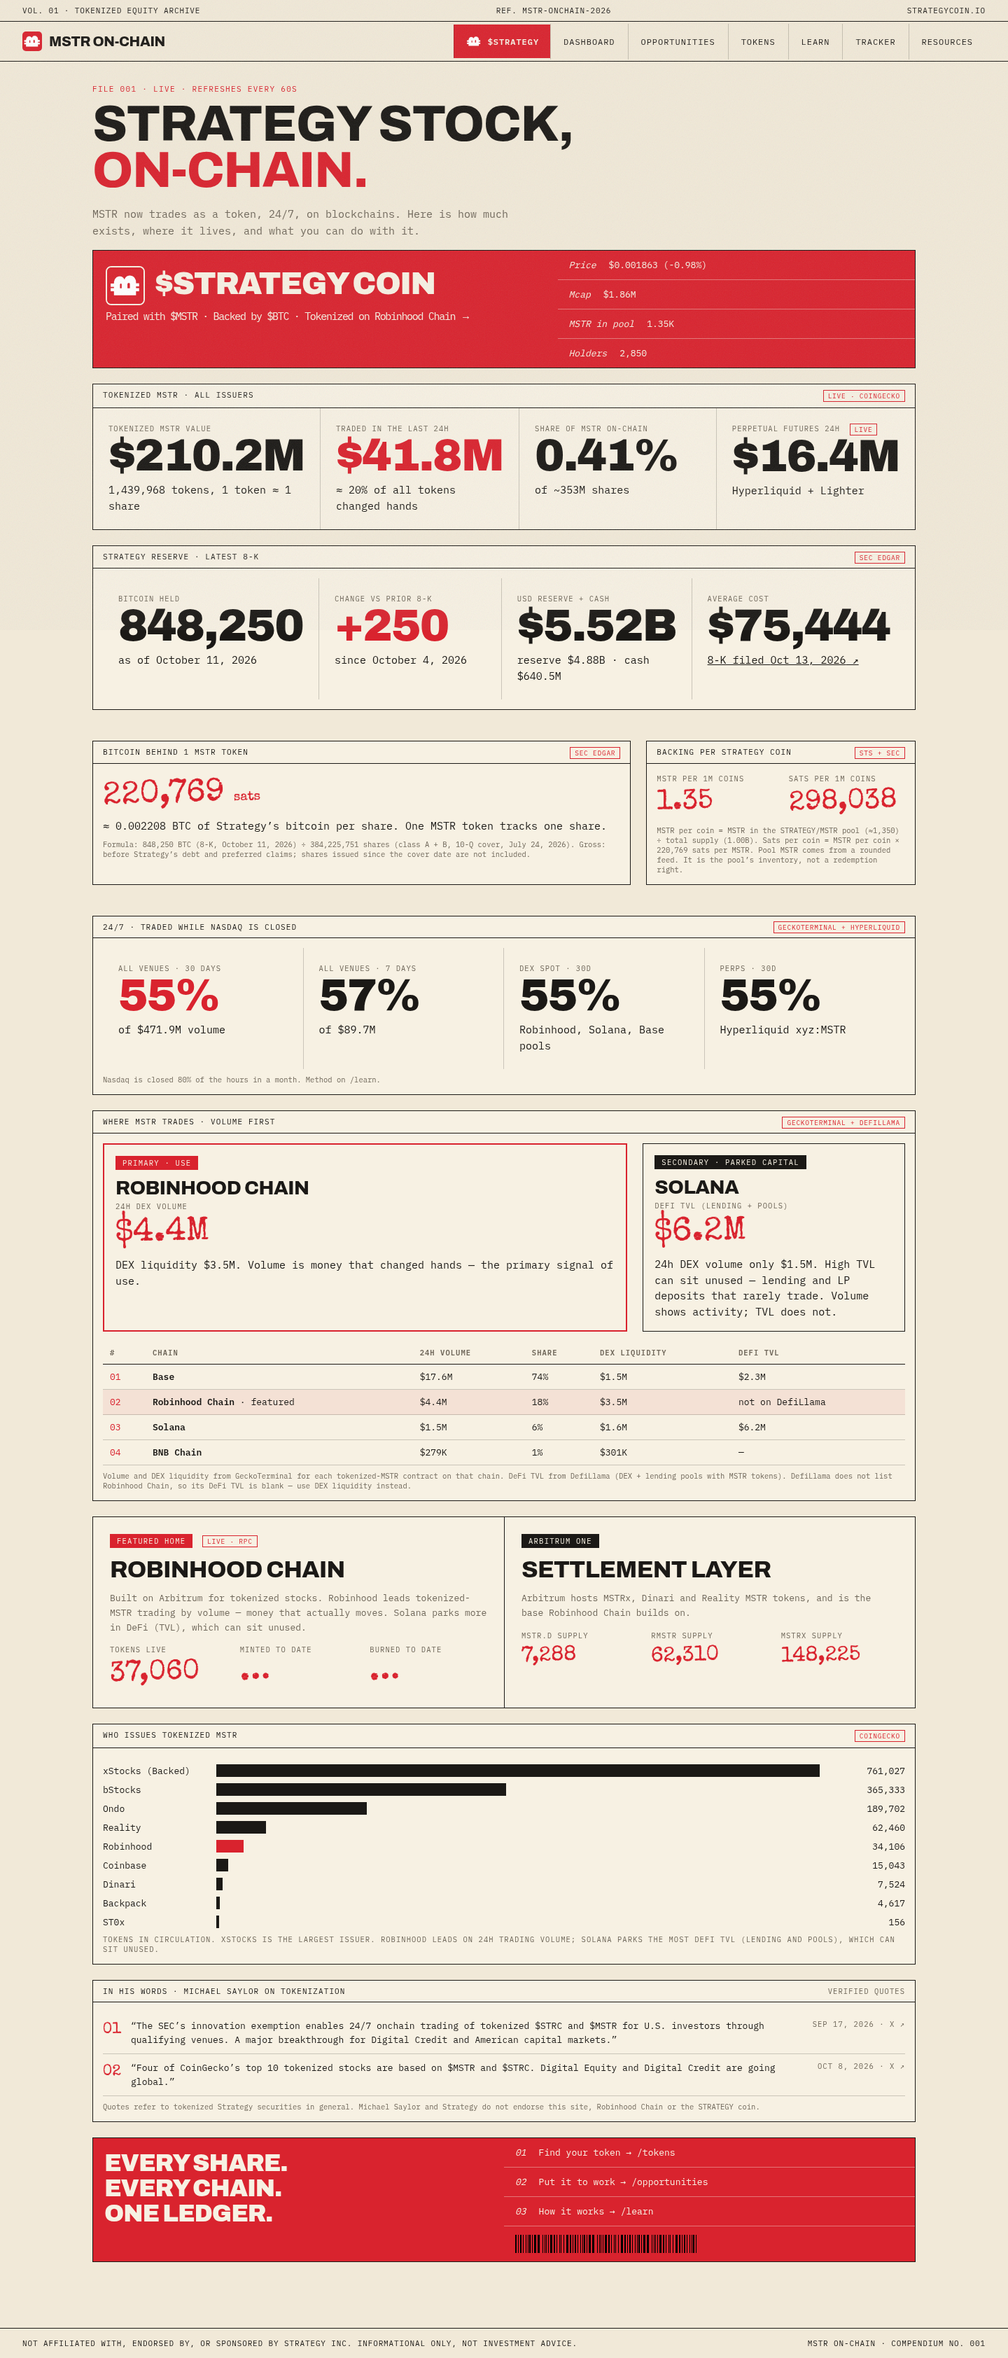
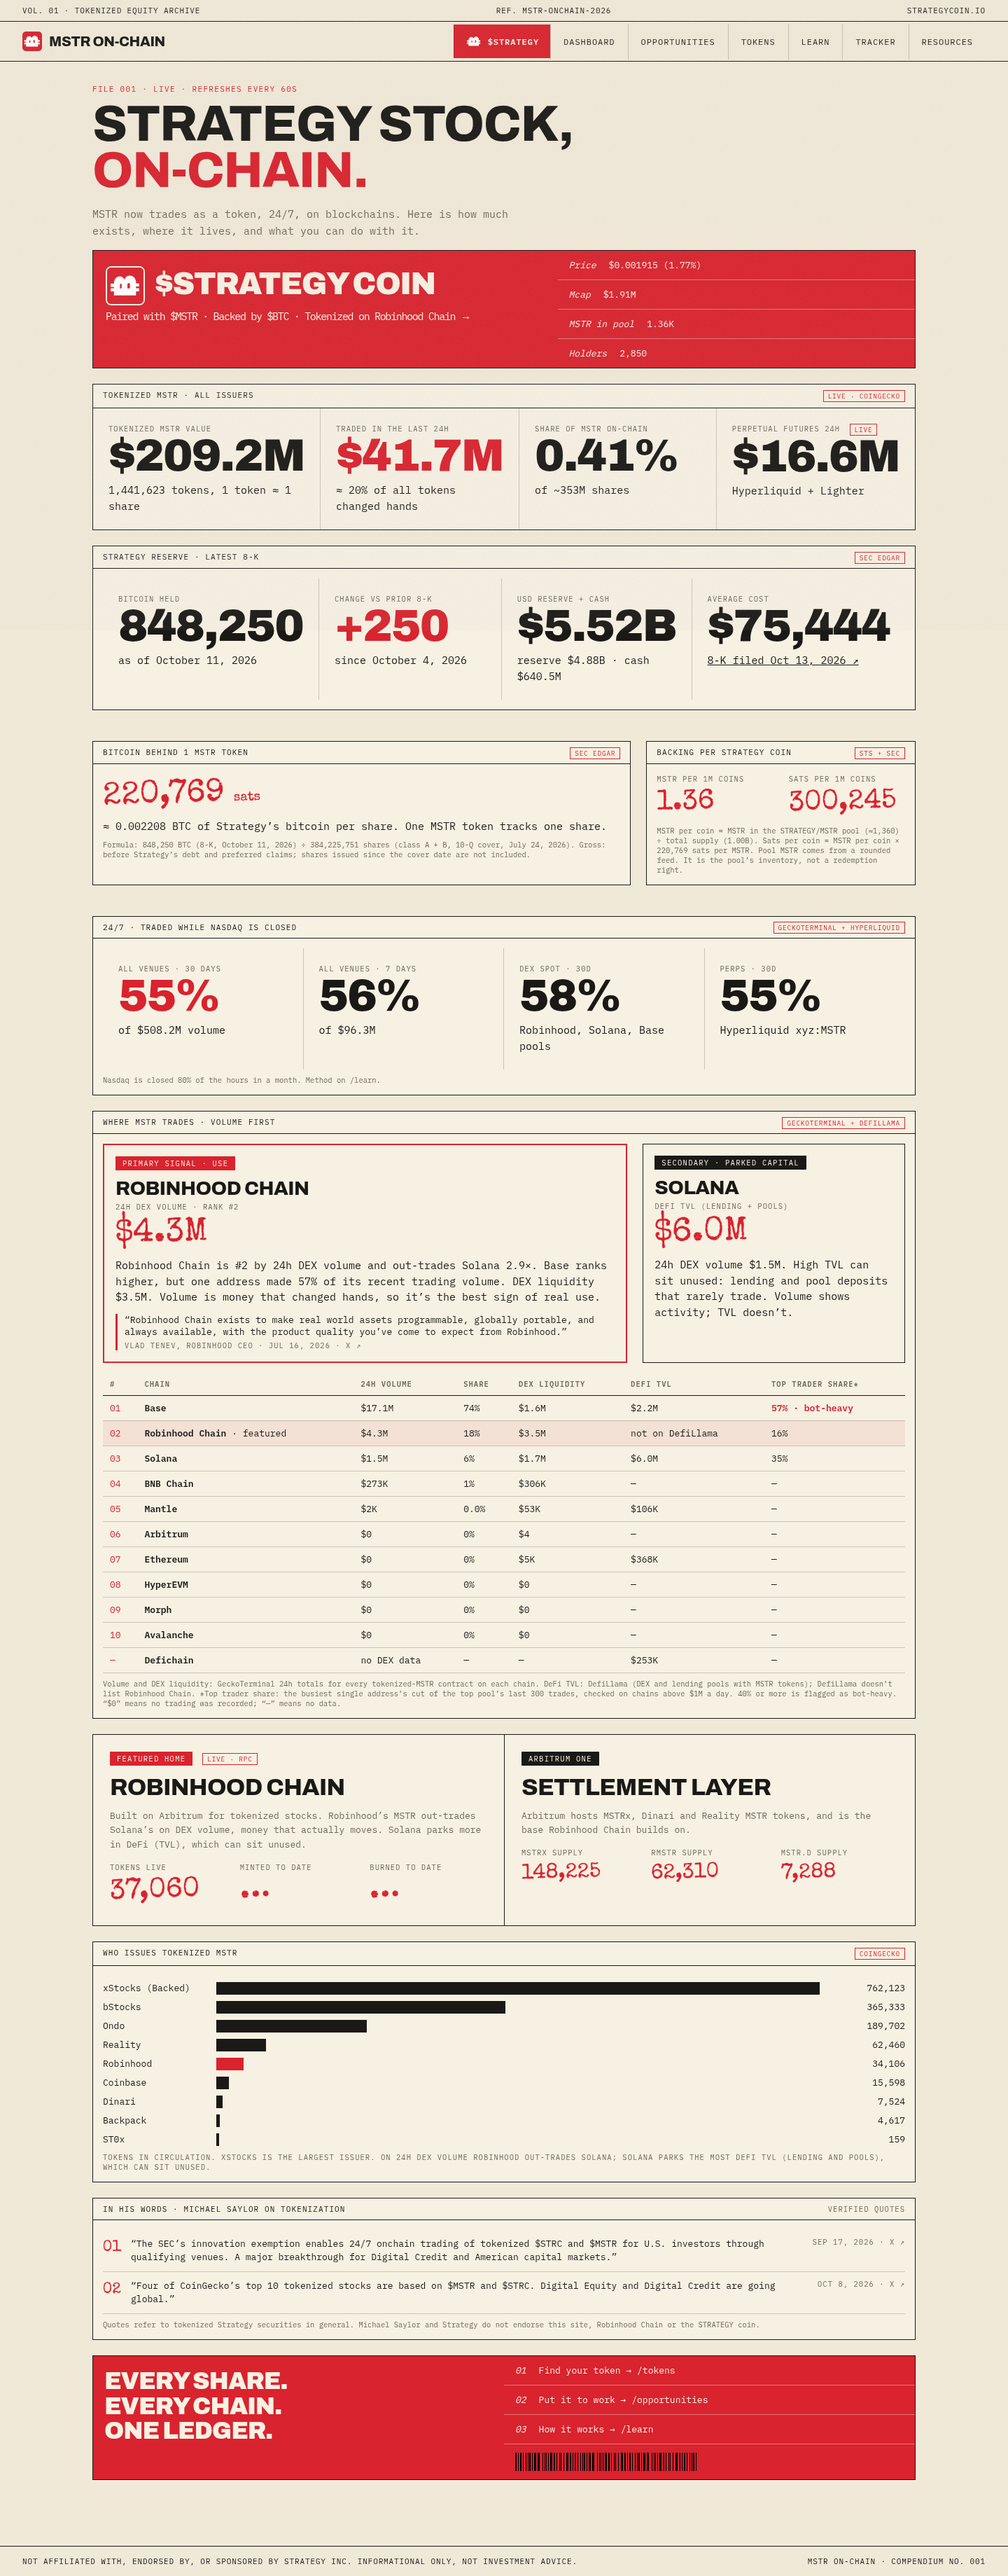
Chains: all networks, bot-concentration check, accurate Robinhood copy, Tenev quote

diff --git a/app/backing.js b/app/backing.js
@@ -49,17 +49,22 @@ export function Collateral({ C }) {
     <F>Kamino: max LTV and supplied collateral from DefiLlama; the borrow rate depends on what you borrow. Morpho: liquidation LTV, rates and sizes from the Morpho API; many markets are very small. Teller: accepts MSTR and STRATEGY for fixed-term loans; it doesn’t publish terms per asset. Loans can be liquidated.</F></Panel>;
 }
 
-/** Robinhood volume vs Solana TVL — use vs money sitting idle. */
+/** Robinhood volume vs Solana TVL — use vs money sitting idle. All chains listed. */
+const TENEV = { q: 'Robinhood Chain exists to make real world assets programmable, globally portable, and always available, with the product quality you\u2019ve come to expect from Robinhood.', d: '2026-07-16', url: 'https://x.com/vladtenev/status/2077814433762451646' };
 export function ChainActivity({ CH }) {
-  const c = Object.fromEntries((CH?.chains || []).map(x => [x.key, x]));
-  const rh = c.robinhood, so = c.solana, top = (CH?.chains || []).filter(x => !x.error && (x.vol24Usd || 0) > 0).slice(0, 5);
+  const L = CH?.chains || [], c = Object.fromEntries(L.map(x => [x.key, x])), rh = c.robinhood, so = c.solana;
+  const x = rh?.vol24Usd && so?.vol24Usd ? rh.vol24Usd / so.vol24Usd : null;
+  const ahead = L.filter(y => y.rank && rh?.rank && y.rank < rh.rank);
+  const lead = rh?.rank == null ? null : rh.rank === 1 ? 'Robinhood Chain is #1 by 24h tokenized-MSTR DEX volume.' : `Robinhood Chain is #${rh.rank} by 24h DEX volume${x ? ` and out-trades Solana ${x.toFixed(1)}×` : ''}.${ahead.some(y => y.botFlag) ? ` ${ahead.filter(y => y.botFlag).map(y => y.chain).join(', ')} ranks higher, but one address made ${ahead.filter(y => y.botFlag).map(y => y.sample.topTraderPct.toFixed(0) + '%').join(', ')} of its recent trading volume.` : ''}`;
+  const cell = v => v == null ? '—' : fmt(v);
   return <Panel t="Where MSTR trades · volume first" r={<St d={CH} s="GECKOTERMINAL + DEFILLAMA" />}><div className="g2">
-    <div style={{ border: '2px solid #d9232e', padding: 16 }}><span className="pill">Primary · use</span><div className="d" style={{ fontSize: 28, margin: '10px 0 4px' }}>Robinhood Chain</div>
-      <div className="k">24h DEX volume</div><div className="stamp" style={{ fontSize: 48, color: '#d9232e' }}>{fmt(rh?.vol24Usd)}</div>
-      <div className="say">DEX liquidity {fmt(rh?.dexLiquidityUsd)}. Volume is money that changed hands — the primary signal of use.</div></div>
+    <div style={{ border: '2px solid #d9232e', padding: 16 }}><span className="pill">Primary signal · use</span><div className="d" style={{ fontSize: 28, margin: '10px 0 4px' }}>Robinhood Chain</div>
+      <div className="k">24h DEX volume{rh?.rank ? ` · rank #${rh.rank}` : ''}</div><div className="stamp" style={{ fontSize: 48, color: '#d9232e' }}>{fmt(rh?.vol24Usd)}</div>
+      <div className="say">{lead || 'Loading…'} DEX liquidity {fmt(rh?.dexLiquidityUsd)}. Volume is money that changed hands, so it’s the best sign of real use.</div>
+      <a href={TENEV.url} target="_blank" rel="noopener" style={{ display: 'block', marginTop: 12, borderLeft: '3px solid #d9232e', paddingLeft: 10, textDecoration: 'none', color: '#1b1916' }}>“{TENEV.q}”<div className="k" style={{ marginTop: 4 }}>Vlad Tenev, Robinhood CEO · Jul 16, 2026 · X ↗</div></a></div>
     <div style={{ border: '1px solid #1b1916', padding: 16 }}><span className="pill" style={{ background: '#1b1916' }}>Secondary · parked capital</span><div className="d" style={{ fontSize: 28, margin: '10px 0 4px' }}>Solana</div>
       <div className="k">DeFi TVL (lending + pools)</div><div className="stamp" style={{ fontSize: 48 }}>{fmt(so?.defiTvlUsd)}</div>
-      <div className="say">24h DEX volume only {fmt(so?.vol24Usd)}. High TVL can sit unused — lending and LP deposits that rarely trade. Volume shows activity; TVL does not.</div></div></div>
-    {top.length > 0 && <table style={{ marginTop: 14 }}><thead><tr><th>#</th><th>Chain</th><th>24h volume</th><th>Share</th><th>DEX liquidity</th><th>DeFi TVL</th></tr></thead><tbody>{top.map((x, i) => <tr key={x.key} style={x.key === 'robinhood' ? { background: 'rgba(217,35,46,.08)' } : undefined}><td style={{ color: '#d9232e' }}>{String(i + 1).padStart(2, '0')}</td><td><b>{x.chain}</b>{x.key === 'robinhood' ? ' · featured' : ''}</td><td>{fmt(x.vol24Usd)}</td><td>{x.volSharePct != null ? x.volSharePct.toFixed(0) + '%' : '—'}</td><td>{fmt(x.dexLiquidityUsd)}</td><td>{x.defiTvlUsd != null ? fmt(x.defiTvlUsd) : (x.key === 'robinhood' ? 'not on DefiLlama' : '—')}</td></tr>)}</tbody></table>}
-    <F>Volume and DEX liquidity from GeckoTerminal for each tokenized-MSTR contract on that chain. DeFi TVL from DefiLlama (DEX + lending pools with MSTR tokens). DefiLlama does not list Robinhood Chain, so its DeFi TVL is blank — use DEX liquidity instead.</F></Panel>;
+      <div className="say">24h DEX volume {fmt(so?.vol24Usd)}. High TVL can sit unused: lending and pool deposits that rarely trade. Volume shows activity; TVL doesn’t.</div></div></div>
+    {L.length > 0 && <table style={{ marginTop: 14 }}><thead><tr><th>#</th><th>Chain</th><th>24h volume</th><th>Share</th><th>DEX liquidity</th><th>DeFi TVL</th><th>Top trader share*</th></tr></thead><tbody>{L.map(y => <tr key={y.key} style={y.key === 'robinhood' ? { background: 'rgba(217,35,46,.08)' } : undefined}><td style={{ color: '#d9232e' }}>{y.rank ? String(y.rank).padStart(2, '0') : '—'}</td><td><b>{y.chain}</b>{y.key === 'robinhood' ? ' · featured' : ''}</td><td>{y.error ? 'unavailable' : y.noDexData ? 'no DEX data' : cell(y.vol24Usd)}</td><td>{y.volSharePct != null ? y.volSharePct.toFixed(y.volSharePct < 1 && y.volSharePct > 0 ? 1 : 0) + '%' : '—'}</td><td>{y.noDexData ? '—' : cell(y.dexLiquidityUsd)}</td><td>{y.defiTvlUsd != null ? fmt(y.defiTvlUsd) : (y.key === 'robinhood' ? 'not on DefiLlama' : '—')}</td><td>{y.sample?.topTraderPct != null ? <span style={y.botFlag ? { color: '#d9232e', fontWeight: 600 } : undefined}>{y.sample.topTraderPct.toFixed(0)}%{y.botFlag ? ' · bot-heavy' : ''}</span> : '—'}</td></tr>)}</tbody></table>}
+    <F>Volume and DEX liquidity: GeckoTerminal 24h totals for every tokenized-MSTR contract on each chain. DeFi TVL: DefiLlama (DEX and lending pools with MSTR tokens); DefiLlama doesn’t list Robinhood Chain. *Top trader share: the busiest single address’s cut of the top pool’s last 300 trades, checked on chains above $1M a day. 40% or more is flagged as bot-heavy. “$0” means no trading was recorded; “—” means no data.</F></Panel>;
 }

diff --git a/app/api/chains/route.js b/app/api/chains/route.js
@@ -2,12 +2,17 @@ import { preflight, cachedFetch, lastGood, json, getJson } from '../../../lib/gu
 import cg from '../../../data/coingecko-tokens.json';
 export const dynamic = 'force-dynamic';
 // Per-chain activity for tokenized MSTR: 24h DEX volume + DEX liquidity (GeckoTerminal token totals) and DeFi TVL (DefiLlama, incl. lending).
-const NET = { robinhood: ['robinhood', 'Robinhood Chain'], solana: ['solana', 'Solana'], base: ['base', 'Base'], 'arbitrum-one': ['arbitrum', 'Arbitrum'], ethereum: ['eth', 'Ethereum'], 'binance-smart-chain': ['bsc', 'BNB Chain'], avalanche: ['avax', 'Avalanche'], hyperevm: ['hyperevm', 'HyperEVM'] };
+const NET = { robinhood: ['robinhood', 'Robinhood Chain'], solana: ['solana', 'Solana'], base: ['base', 'Base'], 'arbitrum-one': ['arbitrum', 'Arbitrum'], ethereum: ['eth', 'Ethereum'], 'binance-smart-chain': ['bsc', 'BNB Chain'], avalanche: ['avax', 'Avalanche'], hyperevm: ['hyperevm', 'HyperEVM'], 'morph-l2': ['morph-l2', 'Morph'], mantle: ['mantle', 'Mantle'] };
+// Tokens not in the CoinGecko list: Mantle WMSTRX (DefiLlama fluxion pool underlying).
+const EXTRA = { mantle: ['0x266e5923f6118f8b340ca5a23ae7f71897361476'] };
+// Chains seen only in DefiLlama (no GeckoTerminal network).
+const LLAMA_ONLY = ['Defichain'];
 const RX = /(^|-|W)MSTR(X|C|ON|B)?($|-)/i;
 const sleep = ms => new Promise(r => setTimeout(r, ms));
 async function load() {
   const by = {};
   for (const t of cg.tokens) for (const [p, a] of Object.entries(t.platforms || {})) if (NET[p]) (by[p] ||= []).push(a);
+  for (const [p, a] of Object.entries(EXTRA)) (by[p] ||= []).push(...a);
   const chains = [];
   for (const [p, addrs] of Object.entries(by)) {
     const [gt, label] = NET[p];
@@ -15,8 +20,20 @@ async function load() {
       const url = `https://api.geckoterminal.com/api/v2/networks/${gt}/tokens/multi/${[...new Set(addrs)].join(',')}`; let d;
       for (let i = 0; ; i++) { try { d = await getJson(url, { ms: 15000 }); break; } catch (e) { if (i >= 3) throw e; await sleep(2500 * (i + 1)); } }
       const vol = d.data.reduce((s, x) => s + (+x.attributes.volume_usd?.h24 || 0), 0), liq = d.data.reduce((s, x) => s + (+x.attributes.total_reserve_in_usd || 0), 0);
-      chains.push({ key: p, chain: label, vol24Usd: vol, dexLiquidityUsd: liq });
+      const top = d.data.flatMap(x => x.relationships?.top_pools?.data || []).map(x => x.id)[0] || null;
+      chains.push({ key: p, chain: label, vol24Usd: vol, dexLiquidityUsd: liq, topPool: top, tokens: d.data.map(x => x.attributes.symbol) });
     } catch (_) { chains.push({ key: p, chain: label, error: true }); }
+    await sleep(1200);
+  }
+  // Concentration check on chains with >$1M daily volume: share of the last 300 trades in the top pool made by the single busiest address.
+  for (const c of chains) if (!c.error && c.vol24Usd > 1e6 && c.topPool) {
+    try {
+      const [net, addr] = [c.topPool.split('_')[0], c.topPool.split('_').slice(1).join('_')];
+      const t = (await getJson(`https://api.geckoterminal.com/api/v2/networks/${net}/pools/${addr}/trades`, { ms: 15000 })).data.map(x => x.attributes);
+      const by = {}; let tot = 0; for (const x of t) { const v = +x.volume_in_usd || 0; tot += v; by[x.tx_from_address] = (by[x.tx_from_address] || 0) + v; }
+      const top = Object.values(by).sort((a, b) => b - a);
+      c.sample = { trades: t.length, traders: Object.keys(by).length, topTraderPct: tot ? top[0] / tot * 100 : null, top3Pct: tot ? (top[0] + (top[1] || 0) + (top[2] || 0)) / tot * 100 : null, avgTradeUsd: t.length ? tot / t.length : null, from: t[t.length - 1]?.block_timestamp, to: t[0]?.block_timestamp };
+    } catch (_) {}
     await sleep(1200);
   }
   let llama = null;
@@ -25,8 +42,11 @@ async function load() {
     y.data.filter(p => RX.test(p.symbol)).forEach(p => llama[p.chain] = (llama[p.chain] || 0) + p.tvlUsd);
   } catch (_) {}
   for (const c of chains) c.defiTvlUsd = llama ? (llama[c.chain] ?? null) : null;
+  for (const n of LLAMA_ONLY) chains.push({ key: n.toLowerCase(), chain: n, vol24Usd: null, dexLiquidityUsd: null, defiTvlUsd: llama ? (llama[n] ?? null) : null, noDexData: true });
+  for (const c of chains) { c.turnover = c.vol24Usd != null && c.dexLiquidityUsd ? c.vol24Usd / c.dexLiquidityUsd : null; c.botFlag = !!(c.sample && c.sample.topTraderPct >= 40); }
   if (chains.every(c => c.error)) throw new Error('all_failed');
-  chains.sort((a, b) => (b.vol24Usd || 0) - (a.vol24Usd || 0));
+  chains.sort((a, b) => (b.vol24Usd ?? -1) - (a.vol24Usd ?? -1));
+  chains.forEach((c, i) => c.rank = c.vol24Usd != null ? i + 1 : null);
   const totVol = chains.reduce((s, c) => s + (c.vol24Usd || 0), 0);
   chains.forEach(c => c.volSharePct = totVol && c.vol24Usd != null ? c.vol24Usd / totVol * 100 : null);
   return { ok: true, fetchedAt: new Date().toISOString(), source: 'geckoterminal + defillama', totalDexVol24Usd: totVol, llamaTracked: llama ? Object.keys(llama) : [], chains,

diff --git a/app/page.js b/app/page.js
@@ -15,11 +15,11 @@ export default function P() {
     <Backing F8={F8} SM={SM} />
     <OffHours OH={OH} compact />
     <ChainActivity CH={CH} />
-    <div className="hero-chain" style={{ background: 'var(--paper)' }}><div><span className="pill">Featured home</span> <St d={RH} s="LIVE · RPC" /><div className="d" style={{ fontSize: 34, margin: '12px 0 6px' }}>Robinhood Chain</div><p className="sub">Built on Arbitrum for tokenized stocks. Robinhood leads tokenized-MSTR trading by volume — money that actually moves. Solana parks more in DeFi (TVL), which can sit unused.</p>
+    <div className="hero-chain" style={{ background: 'var(--paper)' }}><div><span className="pill">Featured home</span> <St d={RH} s="LIVE · RPC" /><div className="d" style={{ fontSize: 34, margin: '12px 0 6px' }}>Robinhood Chain</div><p className="sub">Built on Arbitrum for tokenized stocks. Robinhood’s MSTR out-trades Solana’s on DEX volume, money that actually moves. Solana parks more in DeFi (TVL), which can sit unused.</p>
       <div className="g3" style={{ marginTop: 14 }}><div><div className="k">Tokens live</div><div className="stamp">{num(RH?.supply)}</div></div><div><div className="k">Minted to date</div><div className="stamp">{RH?.mintBurn ? num(RH.mintBurn.minted) : RH?.scanning ? '…' : '—'}</div></div><div><div className="k">Burned to date</div><div className="stamp">{RH?.mintBurn ? num(RH.mintBurn.burned) : RH?.scanning ? '…' : '—'}</div></div></div></div>
       <div><span className="pill" style={{ background: '#1b1916' }}>Arbitrum One</span><div className="d" style={{ fontSize: 34, margin: '12px 0 6px' }}>Settlement layer</div><p className="sub">Arbitrum hosts MSTRx, Dinari and Reality MSTR tokens, and is the base Robinhood Chain builds on.</p>
         <div className="g3" style={{ marginTop: 14 }}>{Object.entries(RH?.arbitrum || { MSTRx: null, rMSTR: null, 'MSTR.d': null }).map(([k, v]) => <div key={k}><div className="k">{k} supply</div><div className="stamp" style={{ fontSize: 30 }}>{num(v)}</div></div>)}</div></div></div>
-    <div className="panel"><div className="ph"><span>Who issues tokenized MSTR</span><St d={T} s="COINGECKO" /></div><div className="pb">{iss.length ? iss.map(x => <div className="hb" key={x.id}><span>{x.issuer}</span><div className="hbar" style={{ width: Math.max(.5, x.circ / mx * 100) + '%', background: x.issuer === 'Robinhood' ? '#d9232e' : '#1b1916' }} /><span style={{ textAlign: 'right' }}>{num(x.circ)}</span></div>) : <div className="k">Loading…</div>}<div className="k" style={{ marginTop: 8 }}>Tokens in circulation. xStocks is the largest issuer. Robinhood leads on 24h trading volume; Solana parks the most DeFi TVL (lending and pools), which can sit unused.</div></div></div>
+    <div className="panel"><div className="ph"><span>Who issues tokenized MSTR</span><St d={T} s="COINGECKO" /></div><div className="pb">{iss.length ? iss.map(x => <div className="hb" key={x.id}><span>{x.issuer}</span><div className="hbar" style={{ width: Math.max(.5, x.circ / mx * 100) + '%', background: x.issuer === 'Robinhood' ? '#d9232e' : '#1b1916' }} /><span style={{ textAlign: 'right' }}>{num(x.circ)}</span></div>) : <div className="k">Loading…</div>}<div className="k" style={{ marginTop: 8 }}>Tokens in circulation. xStocks is the largest issuer. On 24h DEX volume Robinhood out-trades Solana; Solana parks the most DeFi TVL (lending and pools), which can sit unused.</div></div></div>
     <Quotes n={2} />
     <div className="redblock"><div className="big d" style={{ fontSize: 34 }}>Every share.<br />Every chain.<br />One ledger.</div><div className="rows">{[['01', 'Find your token →  /tokens'], ['02', 'Put it to work →  /opportunities'], ['03', 'How it works →  /learn']].map(([a, b]) => <div key={a}><i>{a}</i><span>{b}</span></div>)}<div style={{ border: 0 }}><Barcode seed="ONCHAIN" w={260} h={26} c="#f7f1e3" /></div></div></div></>);
 }

diff --git a/research/SAYLOR-TOKENIZATION.md b/research/SAYLOR-TOKENIZATION.md
@@ -62,3 +62,25 @@ Method: X API (`from:saylor` searches, post lookups), fxtwitter for full long-po
 | Quote cards | Rotating **"In his words"** strip on /learn with dated, linked quotes (these 11 only) | this file |
 
 Gaps: no transcript of the World Bank talk; X Articles bodies not fetched; no Saylor quote yet mentioning Robinhood Chain or $STRATEGY specifically (don't imply one).
+
+## Vlad Tenev (Robinhood CEO) on Robinhood Chain and RWAs (verified on X, Oct 14, 2026)
+- "Robinhood Chain exists to make real world assets programmable, globally portable, and always available, with the product quality you've come to expect from Robinhood." 2026-07-16. https://x.com/vladtenev/status/2077814433762451646 (used on site)
+- "Robinhood Chain is built for tokenized real-world assets and the apps people actually want to use with them. Usage follows utility: …" 2026-10-12 (reply). https://x.com/vladtenev/status/2109700037861310828
+- "While we're building robinhood chain to be the best chain for RWA … it works great for memes too" 2026-07-08. https://x.com/vladtenev/status/2074695821896065360
+- "The future of crypto is in real-world assets." 2026-07-08. https://x.com/vladtenev/status/2074646246476890610
+
+None of these uses the exact phrase "home of RWAs".
+
+## Base volume check (Oct 14, 2026, around 10:45 CT)
+- **Pool:** MSTRc/USDC on Aerodrome Slipstream, Base pool 0x8b27f626ab668197000bc722a1012022caed10e2.
+- **Base token:** 0xb2000000000000000000004884b426556b92883d. DexScreener names it "Strategy Inc." (MSTRc), the Coinbase-tokenized MSTR. This is the same as the CoinGecko listing.
+- **24h volume:** $17.02M (GeckoTerminal), $17.10M (DexScreener); all 17 pairs total $17.20M. CoinGecko shows $16.42M for the token.
+- **Size relative to the market:** CoinGecko market cap is only $2.27M, and pool liquidity is about $2.15M, so the pool turned over about 8× in a day.
+- **Trades:** 8,953 trades from 454 buyers and 387 sellers.
+- **Concentration:** in the last 300 trades (about 40 minutes), one address (0x80e4e365…dcc58) made 131 trades and about 57–59% of the USD volume, buying and selling within seconds. It's an externally owned account with about 184.9K lifetime transactions.
+- **Verdict:** the volume is real on-chain trading, but it is mostly one automated trader. It is not broad usage.
+- **Robinhood Chain cross-check:**
+  - DexScreener: 30 pairs, $4.37M, 7,603 trades.
+  - GeckoTerminal: 60 pools, $4.28M; token total $4.29M.
+  - CoinGecko: $4.18M.
+  - Top trader is 16% of the recent sample.
